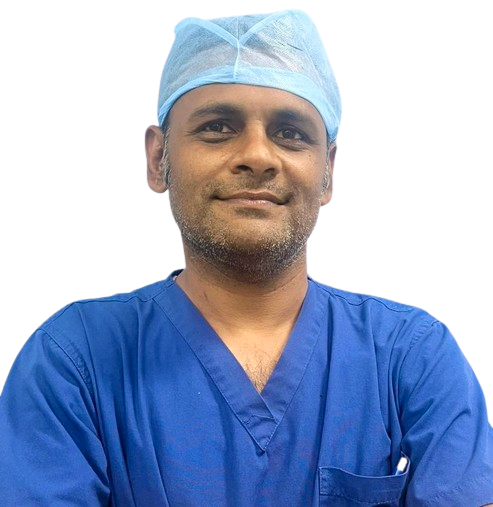
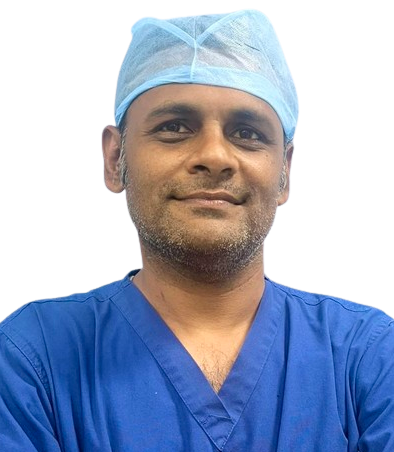
doct images dimension adjustd

diff --git a/orthopaedic/ortho9.html b/orthopaedic/ortho9.html
@@ -82,7 +82,7 @@
          <div class="collapse navbar-collapse" id="navbarNav">
             <ul class="navbar-nav mx-auto" id="edit_navbar_ul">
                <li class="nav-item">
-                  <a class="nav-link" href="../index.html#aboutus">About us</a>
+                  <a class="nav-link" href="../aboutus.html">About us</a>
                </li>
                <li class="nav-item dropdown">
                   <a class="nav-link dropdown-toggle" href="#" role="button" data-bs-toggle="dropdown"
@@ -281,22 +281,11 @@
    <div class="container">
       <div class="info-box">
          <h3>About Pediatric Surgery</h3>
-         <p>Sterling Orthopaedic Hospital and IVF Centre
-            provides specialized surgical care for pediatric patients, focusing on
-            addressing a wide range of surgical needs unique to children. Our team of pediatric surgeons and medical
-            professionals are dedicated to delivering compassionate and comprehensive care to young patients and
-            their
-            families.</p>
-         <p>We offer surgical treatments for various pediatric conditions, including congenital anomalies,
-            orthopedic issues, abdominal disorders, urological problems, and more. Our pediatric surgical services
-            are tailored to ensure minimal discomfort, faster recovery, and optimal outcomes for children of all
-            ages.</p>
-         <p>At Sterling Orthopaedic Hospital and IVF Centre
-            , we understand the importance of gentle and effective surgical
-            interventions for children. Trust our experienced pediatric surgical team to provide expert care and
-            support throughout your child's surgical journey.</p>
+         <p>Sterling Orthopaedic Hospital and IVF Centre provides specialized surgical care exclusively for pediatric patients, addressing a wide range of surgical needs unique to children. Our team of pediatric surgeons and medical professionals are dedicated to delivering compassionate and comprehensive care to young patients and their families.</p>
+         <p>We offer surgical treatments for various pediatric conditions, including congenital anomalies, orthopedic issues, abdominal disorders, urological problems, and more. Our pediatric surgical services are tailored to ensure minimal discomfort, faster recovery, and optimal outcomes for children of all ages.</p>
+         <p>At Sterling Orthopaedic Hospital and IVF Centre, we understand the importance of gentle and effective surgical interventions for children. Trust our experienced pediatric surgical team to provide expert care and support throughout your child's surgical journey.</p>
       </div>
-
+   
       <div class="container-fluid my-5">
          <div class="row">
             <div class="col-md-4">
@@ -317,6 +306,7 @@
          </div>
       </div>
    </div>
+   
 
    <!-- Footer -->
    <footer id="contactus" class="py-3">

diff --git a/orthopaedic/ortho2.html b/orthopaedic/ortho2.html
@@ -17,12 +17,6 @@
    <title>Our Doctors | Sterling Hospital</title>
    <link rel="stylesheet" href="../style.css">
    <style>
-      /* .jumbotron {
-         background-image: url('../orthoImages/o7.jpg');
-         background-size: cover;
-         background-position: center;
-      } */
-
       .zoom-effect-container {
          position: relative;
          width: 100%;
@@ -82,7 +76,7 @@
          <div class="collapse navbar-collapse" id="navbarNav">
             <ul class="navbar-nav mx-auto" id="edit_navbar_ul">
                <li class="nav-item">
-                  <a class="nav-link" href="../index.html#aboutus">About us</a>
+                  <a class="nav-link" href="../aboutus.html">About us</a>
                </li>
                <li class="nav-item dropdown">
                   <a class="nav-link dropdown-toggle" href="#" role="button" data-bs-toggle="dropdown"
@@ -275,6 +269,26 @@
       <div class="container">
          <h2 style="color: #2c4b6b;">Spine Surgery and Spinal Disorders</h2>
          <p class="lead" style="color: #7a5a4b; ">Expert Care for Your Spine Health in Virar & Mumbai</p>
+      </div>
+   </div>
+
+   <div class="container my-5">
+      <div class="row">
+         <div class="col-md-4">
+            <div class="zoom-effect-container">
+               <img src="../orthoImages/o4.jpg" class="img-fluid image-card" alt="Spinal Care">
+            </div>
+         </div>
+         <div class="col-md-4">
+            <div class="zoom-effect-container">
+               <img src="../orthoImages/o5.jpg" class="img-fluid image-card" alt="Spine Surgery">
+            </div>
+         </div>
+         <div class="col-md-4">
+            <div class="zoom-effect-container">
+               <img src="../orthoImages/o6.jpg" class="img-fluid image-card" alt="Back Pain Treatment">
+            </div>
+         </div>
       </div>
    </div>
 

diff --git a/orthopaedic/ortho1.html b/orthopaedic/ortho1.html
@@ -36,7 +36,7 @@
 
       .image-card {
          width: 100%;
-         height: 300px;
+         height: auto;
          object-fit: cover;
          transition: transform 0.5s ease;
       }
@@ -87,7 +87,7 @@
          <div class="collapse navbar-collapse" id="navbarNav">
             <ul class="navbar-nav mx-auto" id="edit_navbar_ul">
                <li class="nav-item">
-                  <a class="nav-link" href="../index.html#aboutus">About us</a>
+                  <a class="nav-link" href="../aboutus.html">About us</a>
                </li>
                <li class="nav-item dropdown">
                   <a class="nav-link dropdown-toggle" href="#" role="button" data-bs-toggle="dropdown"
@@ -297,6 +297,25 @@
       </div>
    </div>
 
+   <div class="container my-5">
+      <div class="row">
+         <div class="col-md-4">
+            <div class="zoom-effect-container">
+               <img src="../orthoImages/o1.jpg" class="img-fluid image-card" alt="Orthopaedic Care">
+            </div>
+         </div>
+         <div class="col-md-4">
+            <div class="zoom-effect-container">
+               <img src="../orthoImages/o2.jpg" class="img-fluid image-card" alt="Trauma Care">
+            </div>
+         </div>
+         <div class="col-md-4">
+            <div class="zoom-effect-container">
+               <img src="../orthoImages/o3.jpg" class="img-fluid image-card" alt="Joint Replacement">
+            </div>
+         </div>
+      </div>
+   </div>
 
    <div class="container">
       <div class="info-box">
@@ -311,7 +330,7 @@
             quality care for your bone and muscle health.</p>
       </div>
 
-      <div class="container-fluid my-5">
+      <div class="container my-5">
          <div class="row">
             <div class="col-md-4">
                <div class="zoom-effect-container">

diff --git a/orthopaedic/ortho3.html b/orthopaedic/ortho3.html
@@ -83,7 +83,7 @@
          <div class="collapse navbar-collapse" id="navbarNav">
             <ul class="navbar-nav mx-auto" id="edit_navbar_ul">
                <li class="nav-item">
-                  <a class="nav-link" href="../index.html#aboutus">About us</a>
+                  <a class="nav-link" href="../aboutus.html">About us</a>
                </li>
                <li class="nav-item dropdown">
                   <a class="nav-link dropdown-toggle" href="#" role="button" data-bs-toggle="dropdown"
@@ -304,12 +304,12 @@
             </div>
             <div class="col-md-4">
                <div class="zoom-effect-container">
-                  <img src="../orthoImages/o8.jpg" class="img-fluid image-card" alt="Trauma Care">
+                  <img src="../orthoImages/vert.jpeg" class="img-fluid image-card" alt="Joint Replacement">
                </div>
             </div>
             <div class="col-md-4">
                <div class="zoom-effect-container">
-                  <img src="../orthoImages/o9.jpg" class="img-fluid image-card" alt="Joint Replacement">
+                  <img src="../orthoImages/o8.jpg" class="img-fluid image-card" alt="Trauma Care">
                </div>
             </div>
          </div>

diff --git a/index.html b/index.html
@@ -63,6 +63,7 @@
          </div>
       </div>
    </div>
+
    <!-- nav bar -->
    <nav class="navbar navbar-expand-lg navbar-light">
       <div class="container-fluid">
@@ -75,7 +76,7 @@
          </button>
          <div class="collapse navbar-collapse" id="navbarNav">
             <ul class="navbar-nav mx-auto" id="edit_navbar_ul">
-               <li class="nav-item active">
+               <li class="nav-item">
                   <a class="nav-link" href="aboutus.html">About us</a>
                </li>
                <li class="nav-item dropdown">

diff --git a/orthopaedic/ortho10.html b/orthopaedic/ortho10.html
@@ -82,7 +82,7 @@
          <div class="collapse navbar-collapse" id="navbarNav">
             <ul class="navbar-nav mx-auto" id="edit_navbar_ul">
                <li class="nav-item">
-                  <a class="nav-link" href="../index.html#aboutus">About us</a>
+                  <a class="nav-link" href="../aboutus.html">About us</a>
                </li>
                <li class="nav-item dropdown">
                   <a class="nav-link dropdown-toggle" href="#" role="button" data-bs-toggle="dropdown"

diff --git a/orthopaedic/ortho11.html b/orthopaedic/ortho11.html
@@ -82,7 +82,7 @@
          <div class="collapse navbar-collapse" id="navbarNav">
             <ul class="navbar-nav mx-auto" id="edit_navbar_ul">
                <li class="nav-item">
-                  <a class="nav-link" href="../index.html#aboutus">About us</a>
+                  <a class="nav-link" href="../aboutus.html">About us</a>
                </li>
                <li class="nav-item dropdown">
                   <a class="nav-link dropdown-toggle" href="#" role="button" data-bs-toggle="dropdown"

diff --git a/orthopaedic/ortho12.html b/orthopaedic/ortho12.html
@@ -82,7 +82,7 @@
          <div class="collapse navbar-collapse" id="navbarNav">
             <ul class="navbar-nav mx-auto" id="edit_navbar_ul">
                <li class="nav-item">
-                  <a class="nav-link" href="../index.html#aboutus">About us</a>
+                  <a class="nav-link" href="../aboutus.html">About us</a>
                </li>
                <li class="nav-item dropdown">
                   <a class="nav-link dropdown-toggle" href="#" role="button" data-bs-toggle="dropdown"

diff --git a/orthopaedic/ortho4.html b/orthopaedic/ortho4.html
@@ -83,7 +83,7 @@
          <div class="collapse navbar-collapse" id="navbarNav">
             <ul class="navbar-nav mx-auto" id="edit_navbar_ul">
                <li class="nav-item">
-                  <a class="nav-link" href="../index.html#aboutus">About us</a>
+                  <a class="nav-link" href="../aboutus.html">About us</a>
                </li>
                <li class="nav-item dropdown">
                   <a class="nav-link dropdown-toggle" href="#" role="button" data-bs-toggle="dropdown"

diff --git a/orthopaedic/ortho5.html b/orthopaedic/ortho5.html
@@ -82,7 +82,7 @@
          <div class="collapse navbar-collapse" id="navbarNav">
             <ul class="navbar-nav mx-auto" id="edit_navbar_ul">
                <li class="nav-item">
-                  <a class="nav-link" href="../index.html#aboutus">About us</a>
+                  <a class="nav-link" href="../aboutus.html">About us</a>
                </li>
                <li class="nav-item dropdown">
                   <a class="nav-link dropdown-toggle" href="#" role="button" data-bs-toggle="dropdown"

diff --git a/orthopaedic/ortho6.html b/orthopaedic/ortho6.html
@@ -82,7 +82,7 @@
          <div class="collapse navbar-collapse" id="navbarNav">
             <ul class="navbar-nav mx-auto" id="edit_navbar_ul">
                <li class="nav-item">
-                  <a class="nav-link" href="../index.html#aboutus">About us</a>
+                  <a class="nav-link" href="../aboutus.html">About us</a>
                </li>
                <li class="nav-item dropdown">
                   <a class="nav-link dropdown-toggle" href="#" role="button" data-bs-toggle="dropdown"

diff --git a/orthopaedic/ortho7.html b/orthopaedic/ortho7.html
@@ -82,7 +82,7 @@
          <div class="collapse navbar-collapse" id="navbarNav">
             <ul class="navbar-nav mx-auto" id="edit_navbar_ul">
                <li class="nav-item">
-                  <a class="nav-link" href="../index.html#aboutus">About us</a>
+                  <a class="nav-link" href="../aboutus.html">About us</a>
                </li>
                <li class="nav-item dropdown">
                   <a class="nav-link dropdown-toggle" href="#" role="button" data-bs-toggle="dropdown"
